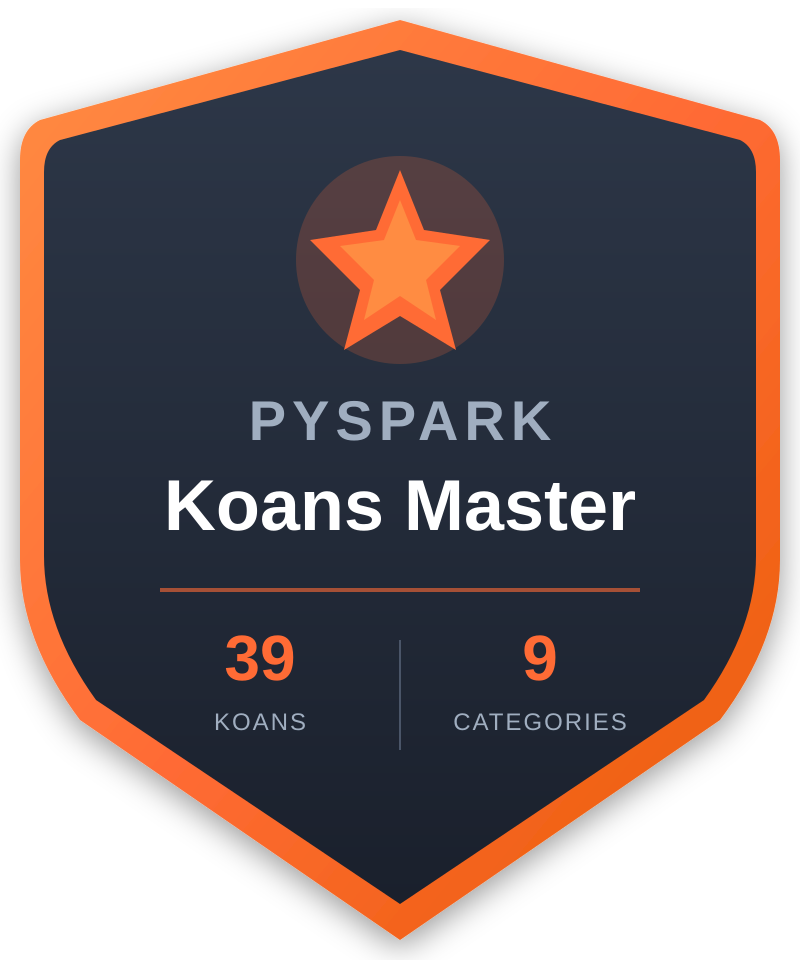
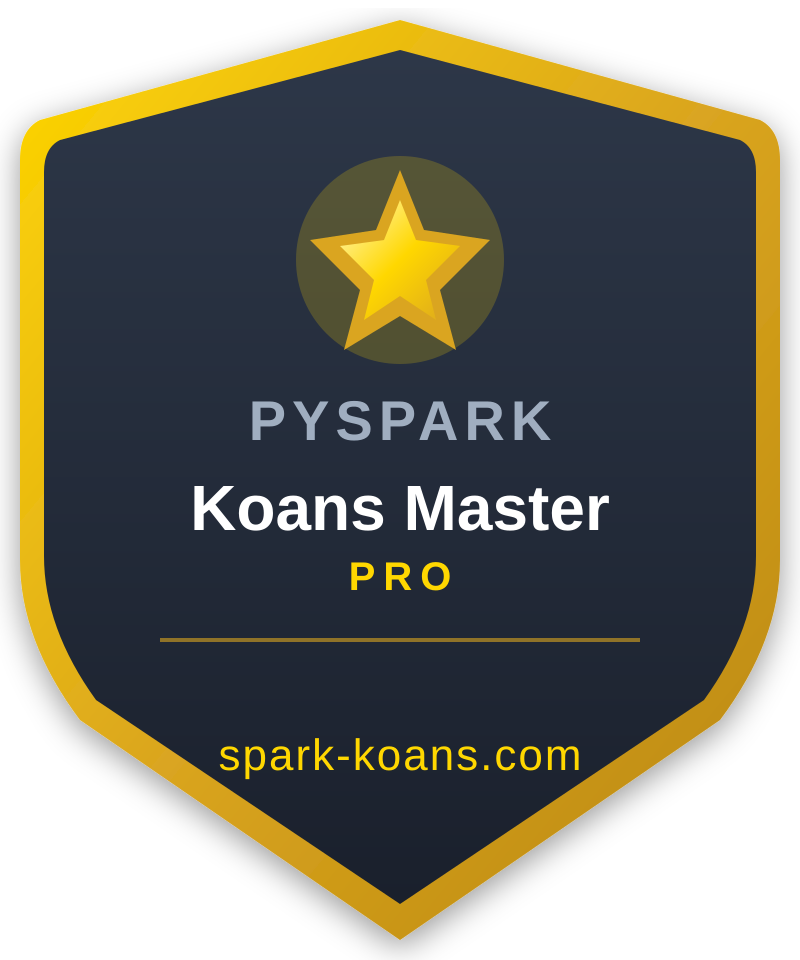
Update badges and remove certification tracks
- Replace badge images with new professional designs
- Remove DE Associate Prep and Data Analyst Prep tracks
- Remove exam coverage tracking functionality
- Simplify to just two tracks: Fundamentals and Advanced

🤖 Generated with [Claude Code](https://claude.com/claude-code)

diff --git a/next-app/src/tracks/index.js b/next-app/src/tracks/index.js
@@ -3,24 +3,19 @@
  * Each track has its own completion requirements and badge
  */
 
-import koansById, { getKoanIdsByCategories, getKoanIdsByExamCoverage } from '../koans';
+import koansById, { getKoanIdsByCategories } from '../koans';
 
 // Cache for resolved koan IDs per track
 const trackKoanIdsCache = new Map();
 
 /**
  * Resolve track definition to actual koan IDs
- * Supports both category-based and exam-based tracks
+ * Supports both category-based and ID-based tracks
  */
 function resolveTrackKoanIds(track) {
   // Category-based tracks
   if (track.requiredCategories && track.requiredCategories.length > 0) {
     return getKoanIdsByCategories(track.requiredCategories);
-  }
-
-  // Exam coverage tracks
-  if (track.examCoverage) {
-    return getKoanIdsByExamCoverage(track.examCoverage);
   }
 
   // Legacy: explicit koan IDs (for backward compatibility)
@@ -93,32 +88,6 @@ export const tracks = {
       ogImage: '/api/og-badge?track=pyspark-advanced'
     },
     order: 2,
-  },
-
-  'de-associate-prep': {
-    id: 'de-associate-prep',
-    name: 'DE Associate Prep',
-    description: 'Prepare for Databricks Data Engineer Associate certification',
-    examCoverage: 'DEA',
-    badge: {
-      title: 'DE Associate Ready',
-      image: '/assets/badges/de-associate-prep.png',
-      ogImage: '/api/og-badge?track=de-associate-prep'
-    },
-    order: 3,
-  },
-
-  'data-analyst-prep': {
-    id: 'data-analyst-prep',
-    name: 'Data Analyst Prep',
-    description: 'Prepare for Databricks Data Analyst Associate certification',
-    examCoverage: 'DAA',
-    badge: {
-      title: 'Data Analyst Ready',
-      image: '/assets/badges/data-analyst-prep.png',
-      ogImage: '/api/og-badge?track=data-analyst-prep'
-    },
-    order: 4,
   },
 };
 
